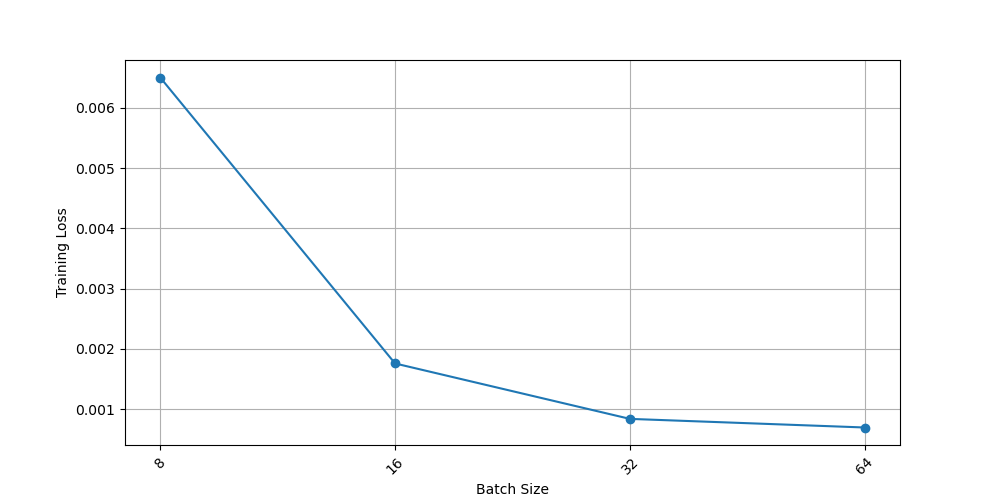
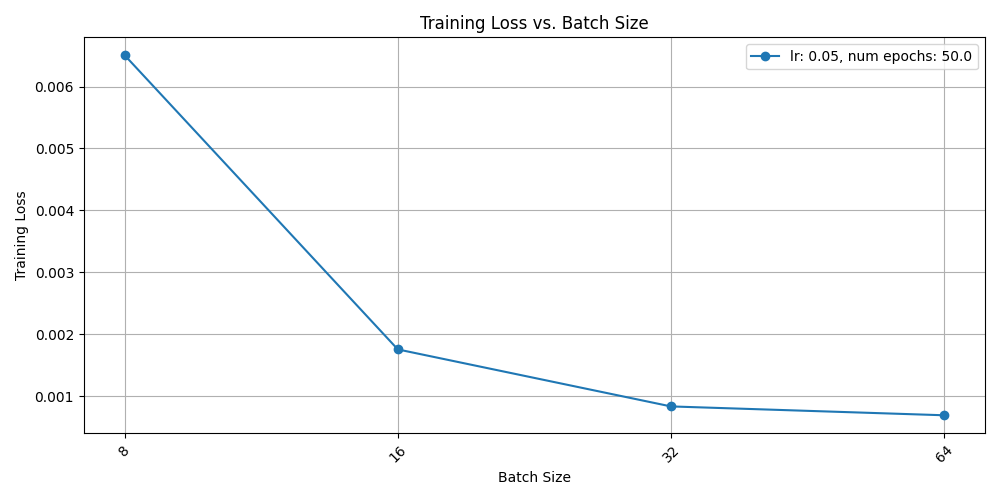
finished generate_graph.py for now...

diff --git a/data_processing/generate_graphs.py b/data_processing/generate_graphs.py
@@ -47,9 +47,16 @@ def generate_graphs(df, x, y, file_name, output_dir):
     x_data = df[x]
     y_data = df[y]
 
+    # Get retrieve the values from the columns that are held constant
+    df = df.drop(columns=[x, 'testing_acc', 'training_loss'])  # Drop the columns that are not needed
+    
+    constant_values = df.iloc[0].to_dict()  # Get the first row as a dictionary
+    constant_values_str = ', '.join([f"{key}: {value}" for key, value in constant_values.items()])  # Create a string representation of the constant values
+    constant_values_str = constant_values_str.replace('_', ' ')  # Replace '_' with ' '
+
     # Example: Generate a simple line graph
     plt.figure(figsize=(10, 5))
-    plt.plot(range(len(x_data)), y_data, marker='o')  # Use range(len(x_data)) for consistent spacing
+    line = plt.plot(range(len(x_data)), y_data, marker='o', label=constant_values_str)  # Use range(len(x_data)) for consistent spacing
 
     match x:
         case 'num_epochs':
@@ -71,7 +78,10 @@ def generate_graphs(df, x, y, file_name, output_dir):
     plt.xticks(ticks=range(len(x_data)), labels=x_data, rotation=45)  # Ensure xticks match x_data
     plt.xlabel(x_label)
     plt.ylabel(y_label)
+    plt.title(f'{y_label} vs. {x_label}')
+    plt.legend()
     plt.grid()
+    plt.tight_layout()
     plt.savefig(os.path.join(output_dir, f'{file_name}.png'))
     plt.close()
 
